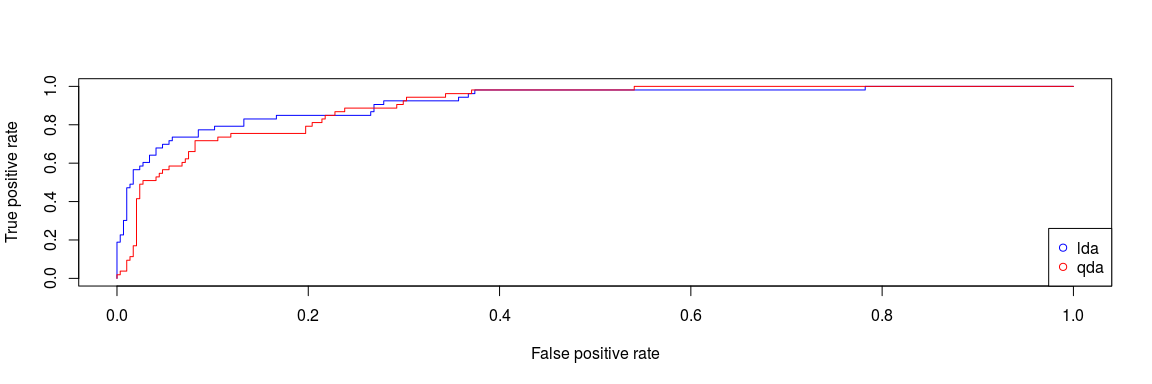
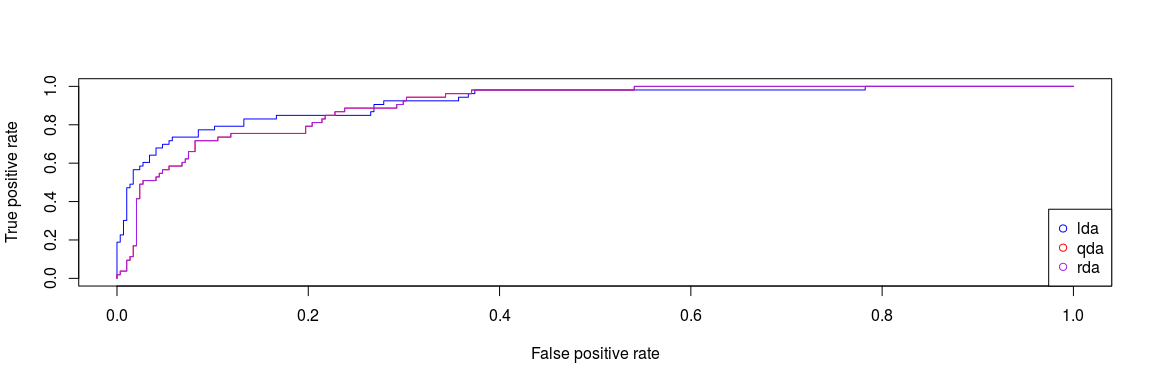
Added 'rda' to ROC curves

diff --git a/classification.da/classification.da.md b/classification.da/classification.da.md
@@ -22,6 +22,11 @@ Les notions
 
 -   Visualisation d'un classifieur et de ses performances
 
+Fichier source
+--------------
+
+Afin d'extraire les portions de code `R` du fichier source [`classification.da.Rmd`](https://github.com/achambaz/laviemodedemploi/blob/master/classification.da/classification.da.Rmd), il suffit d'exécuter dans `R` la commande `knitr::purl("classification.da.Rmd")`.
+
 Une introduction à la classification par analyse discriminante
 --------------------------------------------------------------
 
@@ -181,6 +186,10 @@ trained.rda <- rda(x = ozone.train.rda, y = ozone.class.rda)
 
 test.rda <- predict(trained.rda, x = ozone.train.rda, y = ozone.class.rda, 
                     xnew = ozone.test.rda, alpha=0.1, delta=0.5)
+test.rda.posterior <- predict(trained.rda, x = ozone.train.rda, y = ozone.class.rda, 
+                              xnew = ozone.test.rda, alpha=0.1, delta=0.5,
+                              type = "posterior")
+
 ## better: use 'rda.cv'
 
 perf.rda <- table(test.rda, ozone.test[, depseuil.col], dnn = list("pred", "truth"))
@@ -202,9 +211,14 @@ roc.lda <- performance(pred.lda, "tpr", "fpr")
 pred.qda <- prediction(test.qda$posterior[, 2], ozone.test[, depseuil.col])
 roc.qda <- performance(pred.qda, "tpr", "fpr")
 
+pred.rda <- prediction(test.rda.posterior[, 2], ozone.test[, depseuil.col])
+roc.rda <- performance(pred.rda, "tpr", "fpr")
+
 plot(roc.lda, col = "blue") 
 plot(roc.qda, col = "red", add = TRUE)
-legend(x = "bottomright", legend = c("lda", "qda"), col = c("blue", "red"), pch = c(21, 21))
+plot(roc.qda, col = "purple", add = TRUE)
+legend(x = "bottomright", legend = c("lda", "qda", "rda"),
+       col = c("blue", "red","purple"), pch = c(21, 21, 21))
 ```
 
 ![](img/ROC-1.png)
